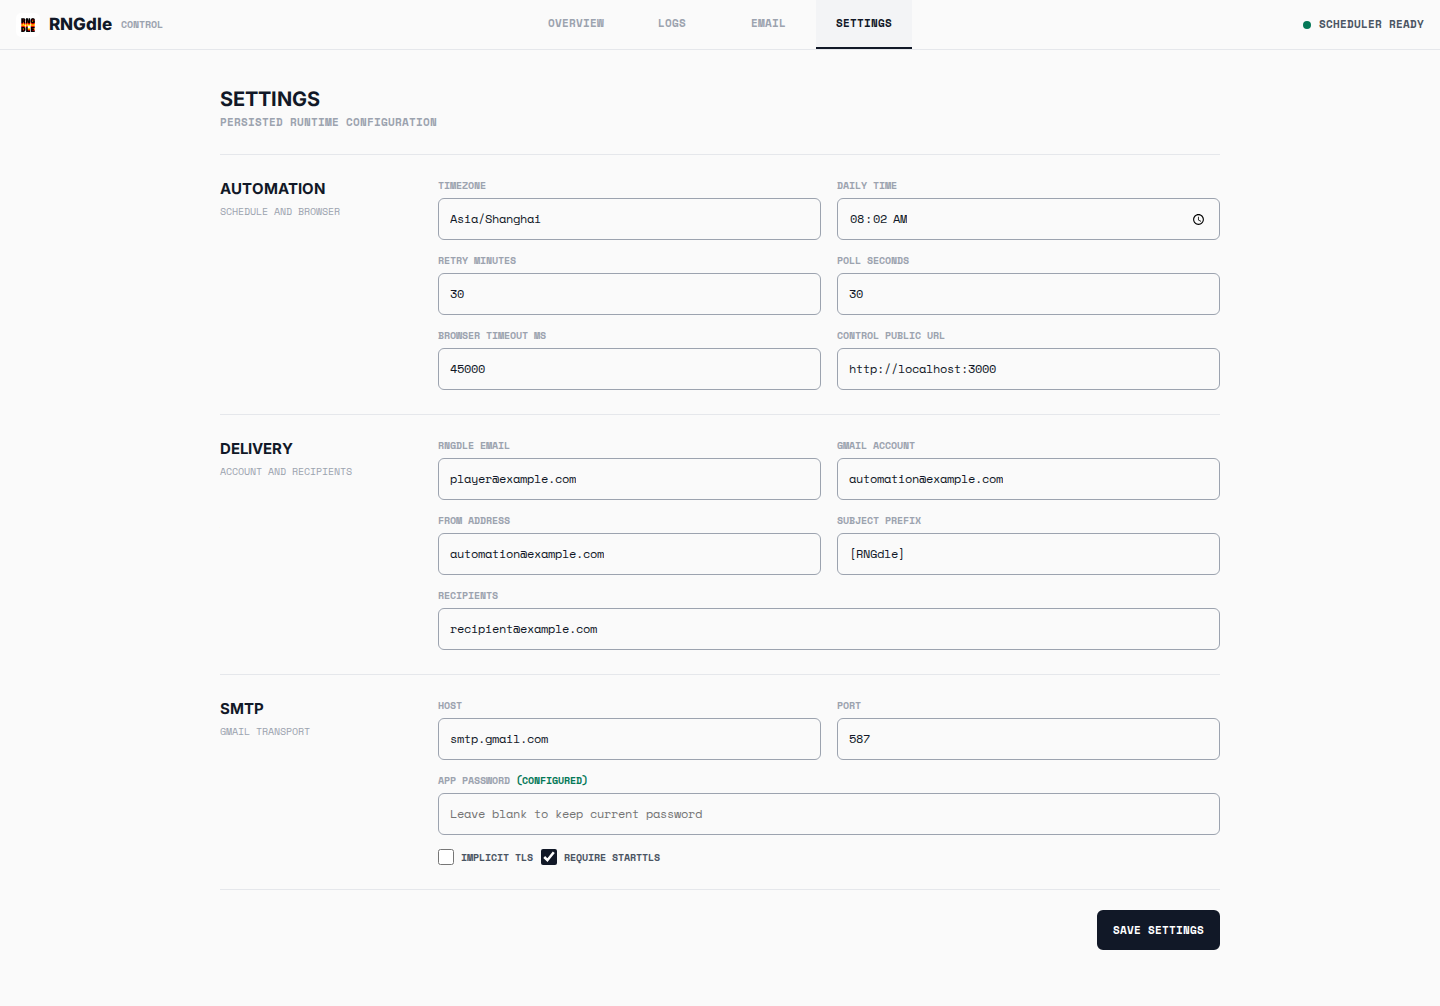
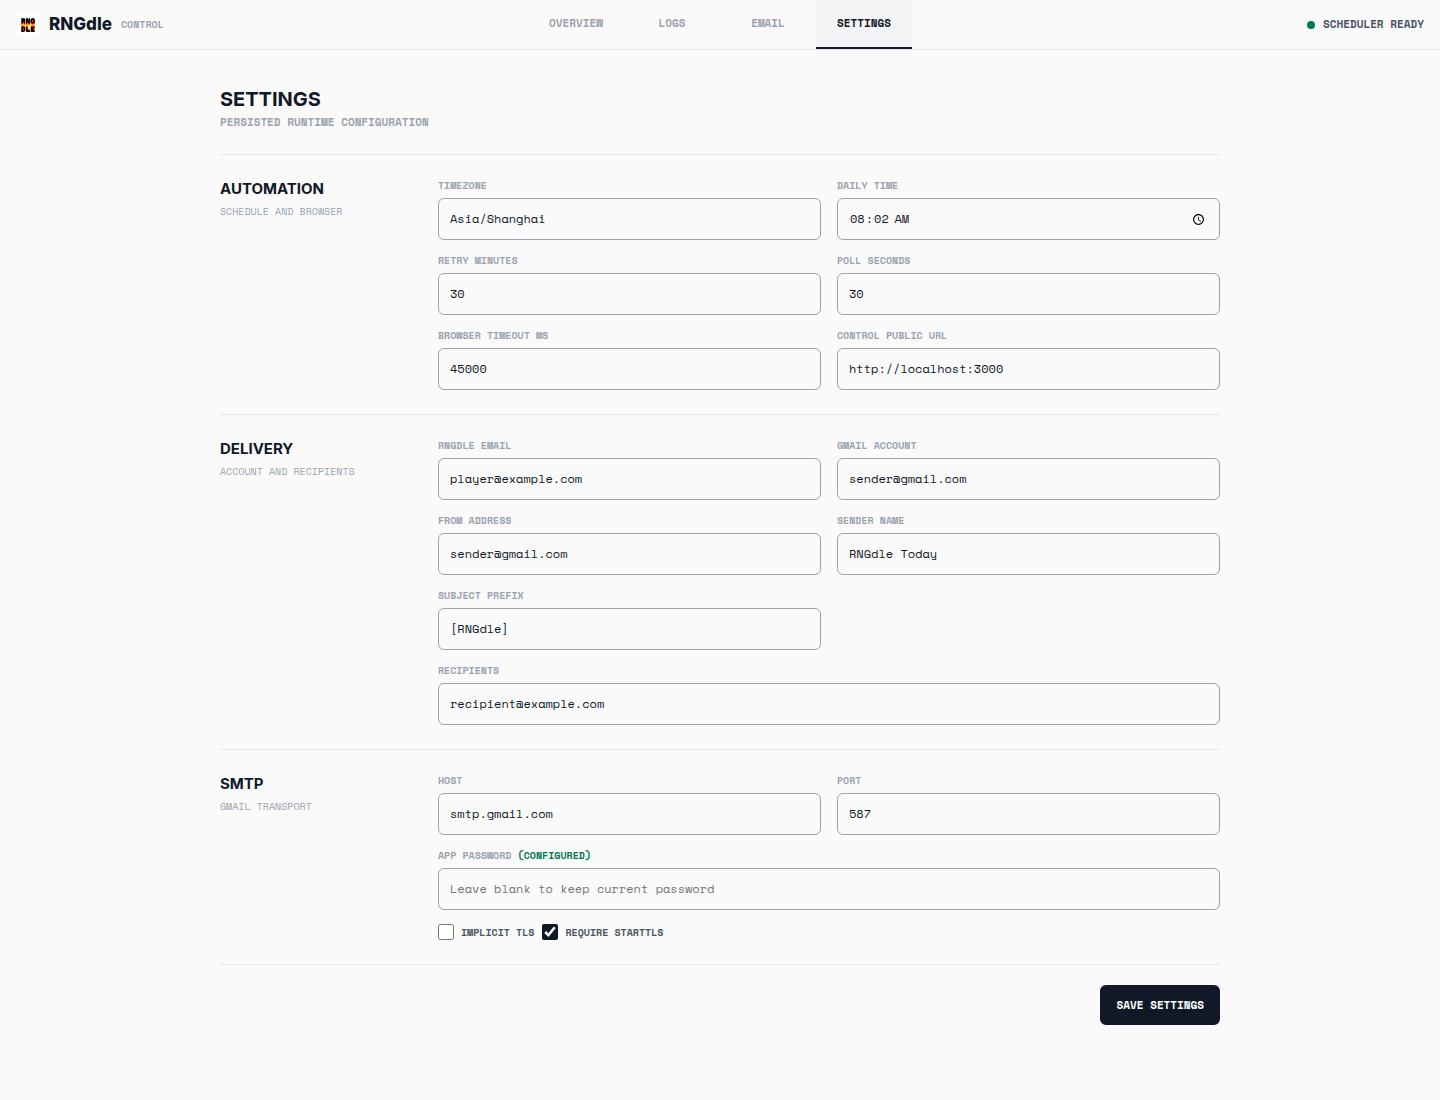
Set RNGdle Today as sender name

diff --git a/src/control-page.js b/src/control-page.js
@@ -235,6 +235,7 @@ export function renderControlPage(baseUrl) {
             <div class="form-field"><label class="field-label" for="rngdle-email">RNGdle email</label><input class="input" id="rngdle-email" type="email" required></div>
             <div class="form-field"><label class="field-label" for="smtp-username">Gmail account</label><input class="input" id="smtp-username" type="email" required></div>
             <div class="form-field"><label class="field-label" for="smtp-from">From address</label><input class="input" id="smtp-from" type="email" required></div>
+            <div class="form-field"><label class="field-label" for="sender-name">Sender name</label><input class="input" id="sender-name" required></div>
             <div class="form-field"><label class="field-label" for="subject-prefix">Subject prefix</label><input class="input" id="subject-prefix" required></div>
             <div class="form-field full"><label class="field-label" for="mail-to">Recipients</label><input class="input" id="mail-to" required></div>
           </div>
@@ -380,7 +381,7 @@ export function renderControlPage(baseUrl) {
       try {
         const data=await request('/api/settings');
         setInput('timezone',data.timezone); setInput('schedule-time',data.scheduleTime); setInput('retry-minutes',data.retryMinutes); setInput('poll-seconds',data.pollSeconds); setInput('browser-timeout',data.browserTimeoutMs); setInput('control-url',data.controlPublicUrl);
-        setInput('rngdle-email',data.rngdleEmail); setInput('smtp-username',data.smtpUsername); setInput('smtp-from',data.smtpFrom); setInput('subject-prefix',data.mailSubjectPrefix); setInput('mail-to',data.mailTo);
+        setInput('rngdle-email',data.rngdleEmail); setInput('smtp-username',data.smtpUsername); setInput('smtp-from',data.smtpFrom); setInput('sender-name',data.mailFromName); setInput('subject-prefix',data.mailSubjectPrefix); setInput('mail-to',data.mailTo);
         setInput('smtp-host',data.smtpHost); setInput('smtp-port',data.smtpPort); byId('smtp-secure').checked=data.smtpSecure; byId('smtp-require-tls').checked=data.smtpRequireTls; byId('smtp-password').value=''; text('secret-state',data.hasSmtpPassword ? '(configured)' : '(missing)');
         settingsLoaded=true;
         mainScrollbar.update();
@@ -393,7 +394,7 @@ export function renderControlPage(baseUrl) {
     byId('email-frame').addEventListener('load',()=>requestAnimationFrame(prepareEmailPreview));
     document.querySelectorAll('[data-email-type]').forEach((button)=>button.addEventListener('click',()=>{ selectedEmailType=button.dataset.emailType; document.querySelectorAll('[data-email-type]').forEach((item)=>item.classList.toggle('active',item===button)); const url='/preview/email?type='+encodeURIComponent(selectedEmailType)+'&t='+Date.now(); byId('preview-scroll').scrollTop=0; byId('email-frame').src=url; byId('preview-open').href=url; byId('email-message').textContent=''; }));
     byId('email-send').addEventListener('click',async()=>{ const recipients=mailRecipients.length ? mailRecipients.join(', ') : 'the configured recipients'; const label=selectedEmailType==='result' ? 'result' : 'login required'; if(!window.confirm('Send the '+label+' email to '+recipients+'?')) return; const button=byId('email-send'); const message=byId('email-message'); button.disabled=true; button.textContent='Sending'; message.className='feedback email-feedback'; message.textContent=''; try { const data=await request('/api/email/send',{method:'POST',headers:{'Content-Type':'application/json'},body:JSON.stringify({type:selectedEmailType})}); message.textContent=data.message; } catch(error) { message.className='feedback email-feedback error'; message.textContent=error.message; } finally { button.disabled=false; button.textContent='Send email'; } });
-    byId('settings-form').addEventListener('submit',async(event)=>{ event.preventDefault(); const message=byId('settings-message'); const save=byId('settings-save'); message.className='feedback'; message.textContent=''; save.disabled=true; const payload={timezone:byId('timezone').value,scheduleTime:byId('schedule-time').value,retryMinutes:Number(byId('retry-minutes').value),pollSeconds:Number(byId('poll-seconds').value),browserTimeoutMs:Number(byId('browser-timeout').value),controlPublicUrl:byId('control-url').value,rngdleEmail:byId('rngdle-email').value,smtpUsername:byId('smtp-username').value,smtpFrom:byId('smtp-from').value,mailSubjectPrefix:byId('subject-prefix').value,mailTo:byId('mail-to').value,smtpHost:byId('smtp-host').value,smtpPort:Number(byId('smtp-port').value),smtpSecure:byId('smtp-secure').checked,smtpRequireTls:byId('smtp-require-tls').checked,smtpAppPassword:byId('smtp-password').value}; try { const data=await request('/api/settings',{method:'PUT',headers:{'Content-Type':'application/json'},body:JSON.stringify(payload)}); message.textContent=data.message; settingsLoaded=false; await loadSettings(); await refreshOverview(); } catch(error) { message.className='feedback error'; message.textContent=error.message; } finally { save.disabled=false; } });
+    byId('settings-form').addEventListener('submit',async(event)=>{ event.preventDefault(); const message=byId('settings-message'); const save=byId('settings-save'); message.className='feedback'; message.textContent=''; save.disabled=true; const payload={timezone:byId('timezone').value,scheduleTime:byId('schedule-time').value,retryMinutes:Number(byId('retry-minutes').value),pollSeconds:Number(byId('poll-seconds').value),browserTimeoutMs:Number(byId('browser-timeout').value),controlPublicUrl:byId('control-url').value,rngdleEmail:byId('rngdle-email').value,smtpUsername:byId('smtp-username').value,smtpFrom:byId('smtp-from').value,mailFromName:byId('sender-name').value,mailSubjectPrefix:byId('subject-prefix').value,mailTo:byId('mail-to').value,smtpHost:byId('smtp-host').value,smtpPort:Number(byId('smtp-port').value),smtpSecure:byId('smtp-secure').checked,smtpRequireTls:byId('smtp-require-tls').checked,smtpAppPassword:byId('smtp-password').value}; try { const data=await request('/api/settings',{method:'PUT',headers:{'Content-Type':'application/json'},body:JSON.stringify(payload)}); message.textContent=data.message; settingsLoaded=false; await loadSettings(); await refreshOverview(); } catch(error) { message.className='feedback error'; message.textContent=error.message; } finally { save.disabled=false; } });
     window.addEventListener('resize',()=>{ mainScrollbar.update(); logScrollbar.update(); prepareEmailPreview(); });
     setInterval(()=>{ refreshOverview(); if(activeView==='logs'&&byId('log-auto').checked) loadLogs(); },3000);
     refreshOverview();

diff --git a/src/settings.js b/src/settings.js
@@ -80,6 +80,7 @@ export function publicSettings(config) {
     smtpUsername: config.smtp.username,
     smtpFrom: config.smtp.from,
     mailTo: config.smtp.to.join(", "),
+    mailFromName: config.mail.fromName ?? "RNGdle Today",
     mailSubjectPrefix: config.mail.subjectPrefix,
     hasSmtpPassword: Boolean(config.smtp.password),
   };
@@ -113,6 +114,9 @@ export function validateSettings(input, config) {
     smtpUsername: emailValue(input.smtpUsername ?? config.smtp.username, "smtpUsername"),
     smtpFrom: emailValue(input.smtpFrom || input.smtpUsername || config.smtp.from, "smtpFrom"),
     mailTo: recipientValues(input.mailTo ?? config.smtp.to),
+    mailFromName: stringValue(input.mailFromName ?? config.mail.fromName ?? "RNGdle Today", "mailFromName", {
+      max: 100,
+    }),
     mailSubjectPrefix: stringValue(input.mailSubjectPrefix ?? config.mail.subjectPrefix, "mailSubjectPrefix", {
       max: 100,
     }),
@@ -136,6 +140,7 @@ export function applySettings(config, settings) {
   config.smtp.from = settings.smtpFrom;
   config.smtp.to = [...settings.mailTo];
   config.smtp.password = settings.smtpAppPassword;
+  config.mail.fromName = settings.mailFromName;
   config.mail.subjectPrefix = settings.mailSubjectPrefix;
 }
 

diff --git a/test/settings.test.js b/test/settings.test.js
@@ -22,7 +22,7 @@ function configFor(directory) {
       to: ["receiver@example.com"],
       password: "original-secret",
     },
-    mail: { subjectPrefix: "[RNGdle]" },
+    mail: { fromName: "RNGdle Today", subjectPrefix: "[RNGdle]" },
     storage: { settingsPath: path.join(directory, "settings.json") },
   };
 }
@@ -36,6 +36,7 @@ test("runtime settings persist, hot-apply, and never expose the password", async
     ...publicSettings(config),
     scheduleTime: "09:15",
     retryMinutes: 45,
+    mailFromName: "RNGdle Today",
     mailTo: "first@example.com, second@example.com",
     smtpAppPassword: "replacement-secret",
   });
@@ -43,6 +44,7 @@ test("runtime settings persist, hot-apply, and never expose the password", async
   assert.equal(config.schedule.time, "09:15");
   assert.equal(config.smtp.password, "replacement-secret");
   assert.deepEqual(config.smtp.to, ["first@example.com", "second@example.com"]);
+  assert.equal(config.mail.fromName, "RNGdle Today");
   assert.equal(visible.hasSmtpPassword, true);
   assert.equal("smtpAppPassword" in visible, false);
   assert.equal((await fs.stat(config.storage.settingsPath)).mode & 0o777, 0o600);

diff --git a/test/mail.test.js b/test/mail.test.js
@@ -5,7 +5,7 @@ import { buildAuthenticationRequiredMessage, buildRollMessage } from "../src/mai
 const config = {
   rngdle: { baseUrl: "https://www.rngdle.com" },
   control: { publicUrl: "http://localhost:3000" },
-  mail: { subjectPrefix: "[RNGdle]" },
+  mail: { fromName: "RNGdle Today", subjectPrefix: "[RNGdle]" },
   smtp: { from: "sender@gmail.com", to: ["receiver@example.com"] },
 };
 
@@ -18,6 +18,7 @@ test("buildRollMessage renders the RNGdle result hierarchy", () => {
   });
 
   assert.match(message.subject, /534461 \(\+2795 EP\)/);
+  assert.deepEqual(message.from, { name: "RNGdle Today", address: "sender@gmail.com" });
   assert.match(message.text, /Total EP: 865,460/);
   assert.match(message.html, />534461</);
   assert.match(message.html, /2,795 EP/);
@@ -43,4 +44,5 @@ test("mail templates escape untrusted display values", () => {
   assert.match(message.html, /&lt;img src=x/);
   assert.doesNotMatch(authentication.html, /<script>alert/);
   assert.match(authentication.html, /&lt;script&gt;/);
+  assert.deepEqual(authentication.from, { name: "RNGdle Today", address: "sender@gmail.com" });
 });

diff --git a/src/mail.js b/src/mail.js
@@ -33,6 +33,10 @@ function transport(config) {
   });
 }
 
+function fromAddress(config) {
+  return { name: config.mail.fromName ?? "RNGdle Today", address: config.smtp.from };
+}
+
 function emailShell({ preheader, headerMeta, content }) {
   return `<!doctype html>
 <html lang="en">
@@ -102,7 +106,7 @@ export function buildRollMessage(config, date, result) {
     </table>`;
 
   return {
-    from: config.smtp.from,
+    from: fromAddress(config),
     to: config.smtp.to,
     subject: `${config.mail.subjectPrefix} ${date}: ${result.number} (+${result.earnedEp} EP)`,
     text: [
@@ -136,7 +140,7 @@ export function buildAuthenticationRequiredMessage(config) {
     </table>`;
 
   return {
-    from: config.smtp.from,
+    from: fromAddress(config),
     to: config.smtp.to,
     subject: `${config.mail.subjectPrefix} Login required`,
     text: `The saved RNGdle login has expired. Open ${config.control.publicUrl} and complete the email magic-link login. The pending daily run will continue automatically.`,

diff --git a/test/control.test.js b/test/control.test.js
@@ -49,7 +49,7 @@ test("control APIs expose operations without exposing secrets", async (context) 
       from: "sender@gmail.com",
       to: ["receiver@example.com"],
     },
-    mail: { subjectPrefix: "[RNGdle]" },
+    mail: { fromName: "RNGdle Today", subjectPrefix: "[RNGdle]" },
     storage: { statePath, settingsPath: path.join(directory, "settings.json") },
   };
   const sent = [];
@@ -97,6 +97,7 @@ test("control APIs expose operations without exposing secrets", async (context) 
 
   const settings = await (await fetch(`${baseUrl}/api/settings`)).json();
   assert.equal(settings.hasSmtpPassword, true);
+  assert.equal(settings.mailFromName, "RNGdle Today");
   assert.equal("smtpAppPassword" in settings, false);
   assert.doesNotMatch(JSON.stringify(settings), /never-return-this/);
 

diff --git a/test/config.test.js b/test/config.test.js
@@ -18,6 +18,7 @@ test("loads YAML and expands secret environment variables", async (context) => {
   assert.equal(config.smtp.authMode, "password");
   assert.equal(config.schedule.time, "08:02");
   assert.equal(config.control.port, 3000);
+  assert.equal(config.mail.fromName, "RNGdle Today");
 });
 
 test("loads Gmail SMTP settings from environment variables", async (context) => {
@@ -38,6 +39,7 @@ test("loads Gmail SMTP settings from environment variables", async (context) => 
   assert.equal(config.smtp.authMode, "password");
   assert.equal(config.smtp.password, "app-password");
   assert.equal(config.smtp.from, "sender@gmail.com");
+  assert.equal(config.mail.fromName, "RNGdle Today");
   assert.deepEqual(config.smtp.to, ["receiver@example.com"]);
 });
 

diff --git a/src/config.js b/src/config.js
@@ -139,6 +139,7 @@ export async function loadConfig(configPath = process.env.CONFIG_PATH ?? "./conf
       to: recipients.map((recipient, index) => requiredString(recipient, `smtp.to[${index}]`)),
     },
     mail: {
+      fromName: requiredString(raw.mail?.fromName ?? "RNGdle Today", "mail.fromName"),
       subjectPrefix: requiredString(raw.mail?.subjectPrefix ?? "[RNGdle]", "mail.subjectPrefix"),
     },
     storage: {

diff --git a/README.md b/README.md
@@ -145,6 +145,7 @@ Docker Compose 从 `.env` 注入启动配置，[config/config.example.yaml](conf
 | `SMTP_USER` | 必填 | 完整 Gmail 发件地址 |
 | `SMTP_APP_PASSWORD` | 必填 | Google 应用专用密码 |
 | `MAIL_FROM` | `SMTP_USER` | 邮件 From；留空时使用 SMTP 用户 |
+| `MAIL_FROM_NAME` | `RNGdle Today` | 收件箱中显示的发件人昵称 |
 | `MAIL_TO` | 必填 | 一个或多个收件人，逗号分隔 |
 | `MAIL_SUBJECT_PREFIX` | `[RNGdle]` | 邮件标题前缀 |
 | `CONTROL_PORT` | `3000` | 容器内 Control 端口 |
